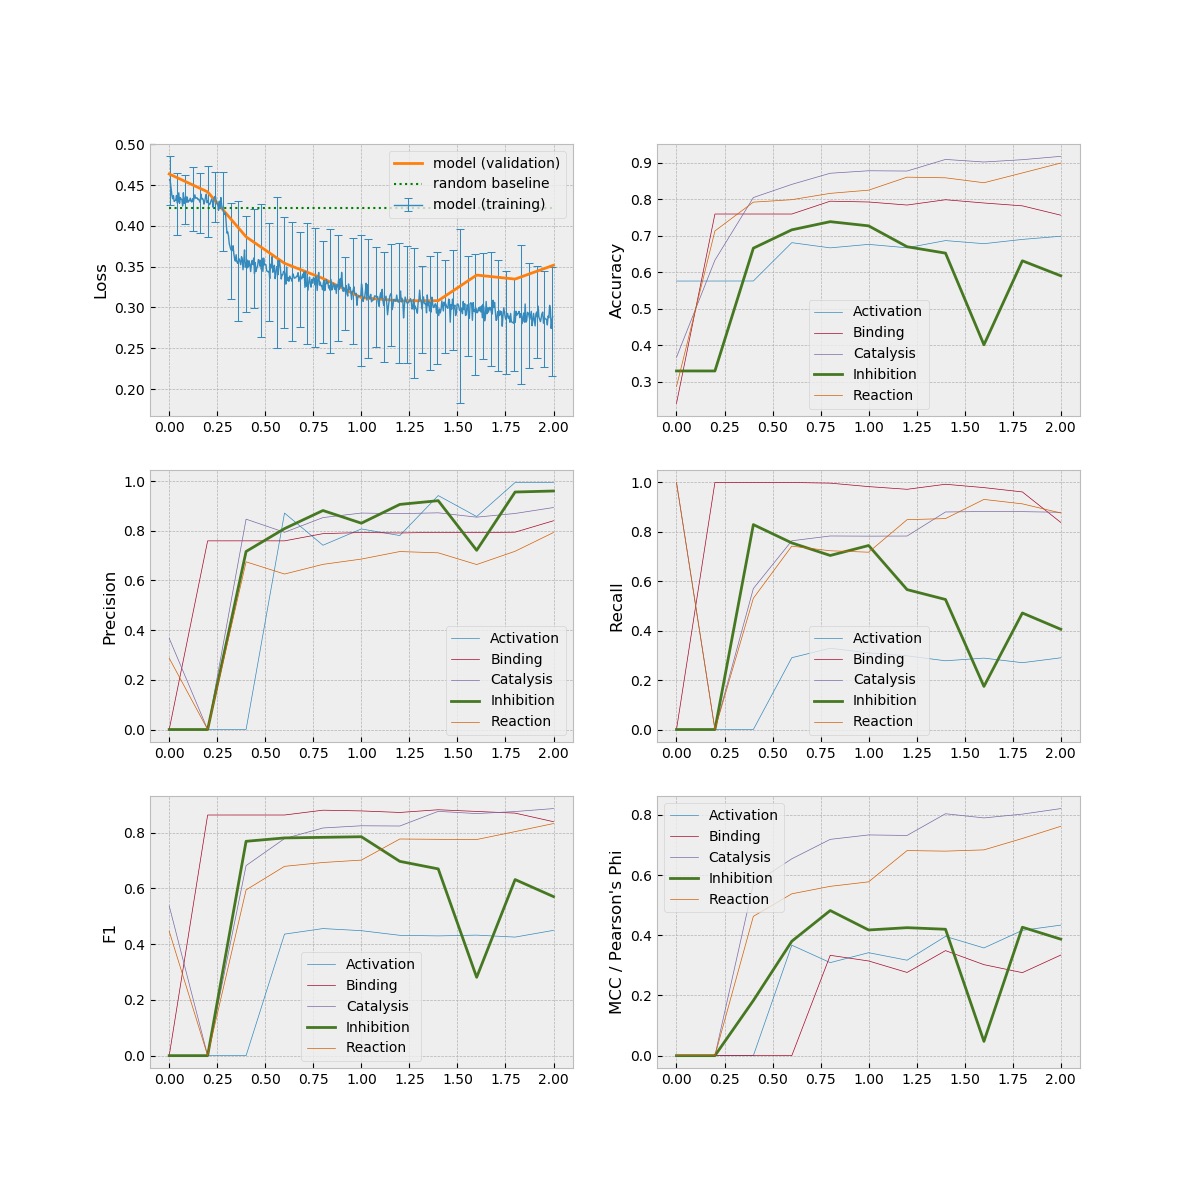
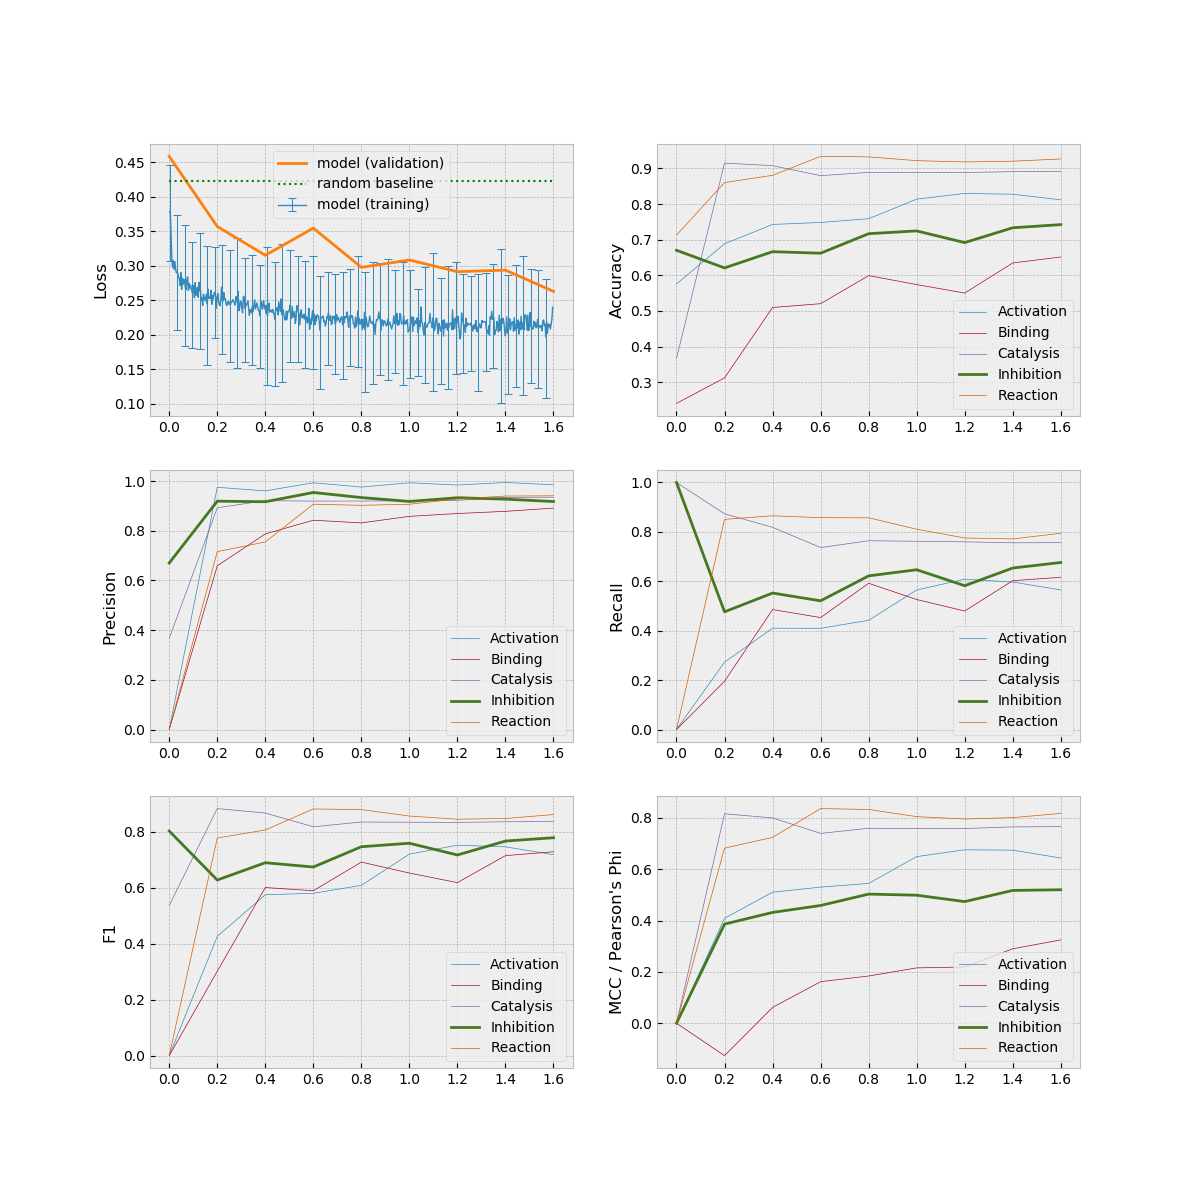
Added hyperparameter optimization

diff --git a/covid/training.py b/covid/training.py
@@ -35,7 +35,7 @@ def initialize_logger(run_name,
     # create console handler and set level to info
     handler = logging.StreamHandler()
     handler.setLevel(print_lvl)
-    formatter = logging.Formatter("[%(levelname)s] %(message)s")
+    formatter = logging.Formatter(f"{run_name} | [%(levelname)s] %(message)s")
     handler.setFormatter(formatter)
     logger.addHandler(handler)
 
@@ -58,8 +58,7 @@ class CovidTrainingConfiguration():
     training_fold: typ.Union[int, None] = 0
     max_epochs: int = 100
     validation_frequency: float = 0.2
-
-    create_checkpoints: bool = True
+    verbosity: int = logging.INFO
 
     device: str = 'cuda'
 
@@ -81,14 +80,18 @@ class CovidTrainingConfiguration():
     # Model hyperparameters
     chem_layers_per_message: int = 2
     chem_hidden_size: int = 300
+    chem_nonlinearity: str = 'ReLU'
+
+    protein_base_dim: int = 64
+    protein_output_dim: int = 600
+    protein_nonlinearity: str = 'silu'
+    protein_downscale_nonlinearity: str = 'tanh'
 
     dropout_rate: float = 0.4
-
-    init_normal: bool = True
-
+    
 
 def _set_random_seeds(seed = 4):
-    logging.info(f"Random seeds set: {seed}")
+    logging.debug(f"Random seeds set: {seed}")
     np.random.seed(seed)
     random.seed(seed)
     T.manual_seed(seed)
@@ -96,28 +99,41 @@ def _set_random_seeds(seed = 4):
 
 def _create_all_data_splits():
     _set_random_seeds(4) # Always split data with consistent random seed
-    logging.info("Creating data splits -- global training/holdout")
+    logging.debug("Creating data splits -- global training/holdout")
     create_data_split('./data', './data/training', './data/final_holdout')
     
     for i in range(10):
-        logging.info(f"Creating data splits -- train/validation {i:02}")
+        logging.debug(f"Creating data splits -- train/validation {i:02}")
         create_data_split('./data/training', f'./data/train_{i:02}', f'./data/valid_{i:02}')
 
 
 def _create_model(config):
-    logging.info("Creating model")
+    logging.debug("Creating model")
     chem_model = MPNEncoder(
         layers_per_message=config.chem_layers_per_message, 
         hidden_size=config.chem_hidden_size,
+        dropout=config.dropout_rate,
+        activation=config.chem_nonlinearity
+    )
+    protein_model = create_protein_model(
+        dropout=config.dropout_rate,
+        outdim = config.protein_output_dim,
+        base_dim = config.protein_base_dim,
+        nonlinearity = config.protein_nonlinearity,
+        downscale_nonlinearity = config.protein_downscale_nonlinearity
+
+    )
+    model = CovidModel(
+        chem_model, 
+        protein_model, 
+        in_dim=config.chem_hidden_size + config.protein_output_dim,
         dropout=config.dropout_rate
     )
-    protein_model = create_protein_model(dropout=config.dropout_rate)
-    model = CovidModel(chem_model, protein_model, dropout=config.dropout_rate)
     return model
 
 
 def _create_optimizer_and_schedulers(model, config):
-    logging.info("Initializing optimizers/schedulers")
+    logging.debug("Initializing optimizers/schedulers")
 
     optim = T.optim.Adam(
         model.parameters(), 
@@ -141,7 +157,7 @@ def _create_optimizer_and_schedulers(model, config):
 
 
 def _create_dataloaders(config):
-    logging.info("Initializing Datasets")
+    logging.debug("Initializing Datasets")
     data = StitchDataset(f'./data/train_{config.training_fold:02}')
     dataloader = create_dataloader(
         data, 
@@ -172,7 +188,7 @@ def train_model(config:CovidTrainingConfiguration,
     if run_name is None:
         run_name = f"train_fold{config.training_fold:02}" if config.training_fold is not None else "train_global"
 
-    initialize_logger(run_name)
+    initialize_logger(run_name, print_lvl=config.verbosity)
 
     logging.info(f"Training initializing -- {run_name}")
     
@@ -192,7 +208,7 @@ def train_model(config:CovidTrainingConfiguration,
     # Create and initialize model
     model = _create_model(config)
     
-    logging.info("Pushing model to device")
+    logging.debug("Pushing model to device")
     model.to(config.device)
 
     # Create dataloaders
@@ -249,7 +265,7 @@ def train_model(config:CovidTrainingConfiguration,
     epoch_length = len(dataloader)
     interrupted = False
 
-    for epoch in tqdm(range(epoch, 100)):
+    for epoch in tqdm(range(epoch, config.max_epochs)):
         logging.info(f"Beginning epoch {epoch}")
         
         pct_epoch = 0

diff --git a/optimize.py b/optimize.py
@@ -1,0 +1,124 @@
+import functools
+import os
+import pickle as pkl
+import threading
+from datetime import datetime
+
+import hyperopt
+from hyperopt import hp
+
+from covid.training import CovidTrainingConfiguration, train_model
+from covid.utils import getch
+
+
+def test_parameterization(params, check_interrupted=None):
+    config = CovidTrainingConfiguration()
+
+    config.max_epochs = 3
+    config.batch_size = 24
+
+    config.optim_adam_betas = (params['adam_beta1'], params['adam_beta2'])
+    del params['adam_beta1']
+    del params['adam_beta2']
+
+    for key, val in params.items():
+        if not hasattr(config, key):
+            print(f"No parameter {key} -- skipping")
+            continue
+
+        if isinstance(getattr(config, key), int):
+            setattr(config, key, int(val))
+        else:
+            setattr(config, key, val)
+
+    started_at = datetime.now()
+
+    losses, validation_stats = train_model(
+        config, 
+        disable_training_resume = True, 
+        check_interrupted=check_interrupted, 
+        disable_checkpointing=True
+    )
+
+    runtime = datetime.now() - started_at
+
+    status = hyperopt.STATUS_OK
+
+    if check_interrupted and check_interrupted():
+        status = hyperopt.STATUS_FAIL
+    
+    _, vloss, _, _ = zip(*validation_stats)
+
+    result = {
+        'loss': min(vloss),
+        'runtime': runtime,
+        'status': status,
+        'training_loss_hist': losses,
+        'validation_stats': validation_stats
+    }
+    return result
+
+def run_optimization():
+    objective = functools.partial(test_parameterization, check_interrupted = check_interrupted)
+    
+    search_space = {
+        'synthetic_negative_rate': hp.uniform('neg_rate', 0,1),
+        'optim_initial_lr': 10 ** -hp.quniform('lr_exp', 2, 5, 0.25),
+        'adam_beta1': 1-hp.loguniform('inv_beta1', -5, -1),
+        'adam_beta2': 1-hp.loguniform('inv_beta2', -8, -2),
+        'optim_adam_eps': hp.loguniform('eps', -15, 0),
+        'chem_layers_per_message': hp.quniform('chem_layers_per_message', 1,4,1),
+        'chem_hidden_size': hp.quniform('chem_hidden_size', 64,384,64),
+        'chem_nonlinearity': hp.choice(
+            'chem_nonlinearity',
+            ['ReLU', 'LeakyReLU', 'tanh', 'ELU']),
+        'protein_base_dim': hp.quniform('protien_base_dim', 16,80,16),
+        'protein_output_dim': hp.quniform('protein_out_dim', 64, 384, 64),
+        'protein_nonlinearity': hp.choice(
+            'protein_nonlinearity', 
+            ['relu', 'silu', 'tanh', 'leaky_relu', 'elu']),
+        'protein_downscale_nonlinearity': hp.choice(
+            'protein_downscale_nonlinearity', 
+            ['relu', 'silu', 'tanh', 'leaky_relu', 'elu']),
+    }
+
+    if os.path.exists("./hyperopt_trials.pkl"):
+        with open("./hyperopt_trials.pkl", "rb") as f:
+            trials = pkl.load(f)
+    else:
+        trials = hyperopt.Trials()
+
+    
+    best = hyperopt.fmin(
+        objective,
+        space=search_space,
+        algo=hyperopt.tpe.suggest,
+        max_evals=10,
+        trials=trials
+    )
+
+    print(best)
+    with open("./hyperopt_trials.pkl", "wb") as f:
+        pkl.dump(trials, f, pkl.HIGHEST_PROTOCOL)
+
+if __name__ == '__main__':
+    
+    interrupted = False
+    def check_interrupted():
+        global interrupted
+        return interrupted
+    
+    th = threading.Thread(target=run_optimization, daemon=False)
+    th.start()
+
+    print("Press 'q' or 'ctrl+c' to interrupt hyperparameter search")
+        
+    while True:
+        ch = getch()
+        if ch in (b'q', 'q', b'\x03', '\x03'):
+            interrupted = True
+            break
+    
+    print("Trying to quit....")
+
+    th.join()

diff --git a/covid/model.py b/covid/model.py
@@ -6,6 +6,7 @@ from .data import apply_to_protein_batch, ProteinBatchToPaddedBatch
 from .modules import create_resnet_block_1d, DownscaleConv1d, Squeeze
 
 import numpy as np
+import functools
 
 __all__ = [
     "CovidModel",
@@ -80,34 +81,53 @@ def run_model(model, batch, device):
     return result, target, loss, weights
 
 
-def create_protein_model(dropout = 0.2, outdim=600):
+def create_protein_model(dropout = 0.2, 
+                         outdim=600, 
+                         base_dim=64,
+                         nonlinearity='silu',
+                         downscale_nonlinearity='tanh',
+                         maxpool=True
+                        ):
+
+    resnet = functools.partial(create_resnet_block_1d, for_protein_batch=True, nonlinearity=nonlinearity)
+
     return nn.Sequential(
         # 21->100 channels inplace convolution
-        apply_to_protein_batch(nn.Conv1d(23, 512, (1, ), 1, 0)),
+        apply_to_protein_batch(nn.Conv1d(23, base_dim * 4, (1, ), 1, 0)),
         apply_to_protein_batch(nn.Dropout(dropout)),
         
         #Do some resnet
-        create_resnet_block_1d(512, 64, inner_kernel=3, for_protein_batch=True),
-        create_resnet_block_1d(512, 64, inner_kernel=5, for_protein_batch=True),
+        resnet(base_dim * 4, base_dim, inner_kernel=3),
+        resnet(base_dim * 4, base_dim, inner_kernel=5),
         apply_to_protein_batch(nn.Dropout(dropout)),
 
-        create_resnet_block_1d(512, 64, inner_kernel=7, for_protein_batch=True),
-        create_resnet_block_1d(512, 64, inner_kernel=11, for_protein_batch=True),
+        resnet(base_dim * 4, base_dim, inner_kernel=7),
+        resnet(base_dim * 4, base_dim, inner_kernel=11),
         
         # Scale it down
-        DownscaleConv1d(512, 512, 4, maxpool=True, for_protein_batch=True),
+        DownscaleConv1d(base_dim * 4, 
+                        base_dim * 8, 
+                        4, 
+                        maxpool=True, 
+                        for_protein_batch=True, 
+                        nonlinearity=downscale_nonlinearity),
         apply_to_protein_batch(nn.Dropout(dropout)),
         
         #Do some resnet
-        create_resnet_block_1d(512, 128, inner_kernel=3, for_protein_batch=True),
-        create_resnet_block_1d(512, 128, inner_kernel=5, for_protein_batch=True),
+        resnet(base_dim * 8, base_dim * 2, inner_kernel=3),
+        resnet(base_dim * 8, base_dim * 2, inner_kernel=5),
         
         # Scale it down again
-        DownscaleConv1d(512, 1024,4,'silu', maxpool=True, for_protein_batch=True),
+        DownscaleConv1d(base_dim * 8, 
+                        base_dim * 16,
+                        4,
+                        maxpool=True, 
+                        for_protein_batch=True,
+                        nonlinearity=downscale_nonlinearity),
         
         # Final resneting
-        create_resnet_block_1d(1024, 256, inner_kernel=7, for_protein_batch=True),
-        create_resnet_block_1d(1024, 256, inner_kernel=3, for_protein_batch=True),
+        resnet(base_dim * 16, base_dim * 4, inner_kernel=7),
+        resnet(base_dim * 16, base_dim * 4, inner_kernel=3),
         
         apply_to_protein_batch(nn.MaxPool1d(100000, ceil_mode=True)),
         
@@ -116,9 +136,9 @@ def create_protein_model(dropout = 0.2, outdim=600):
         
         Squeeze(-1),
         nn.Dropout(dropout),
-        nn.Linear(1024, 1024),
+        nn.Linear(base_dim * 16, base_dim * 16),
         nn.ReLU(),
-        nn.Linear(1024,outdim),
+        nn.Linear(base_dim * 16, outdim),
         #nn.Tanhshrink(),
         #nn.Tanh(),
     )

diff --git a/covid/modules/utility.py b/covid/modules/utility.py
@@ -7,7 +7,14 @@ class SiLU(nn.Module):
     def forward(self, x):
         return silu(x)
 
-NONLINEARITIES = {'relu': nn.ReLU, 'silu': SiLU, 'sigmoid': nn.Sigmoid, 'tanh': nn.Tanh}
+NONLINEARITIES = {
+    'relu': nn.ReLU, 
+    'silu': SiLU, 
+    'sigmoid': nn.Sigmoid, 
+    'tanh': nn.Tanh,
+    'leaky_relu': nn.LeakyReLU,
+    'elu': nn.ELU
+}
 
 class Squeeze(nn.Module):
     def __init__(self, axis):

diff --git a/train_model.py b/train_model.py
@@ -17,7 +17,7 @@ if __name__ == '__main__':
         args=[config], 
         kwargs={
             'check_interrupted':check_interrupted,
-            'disable_checkpointing':True
+            #'disable_checkpointing':True
         }
     )
     run_thread.start()
@@ -32,6 +32,3 @@ if __name__ == '__main__':
     
     print("Trying to quit....")
     run_thread.join()
-    
-
-    
